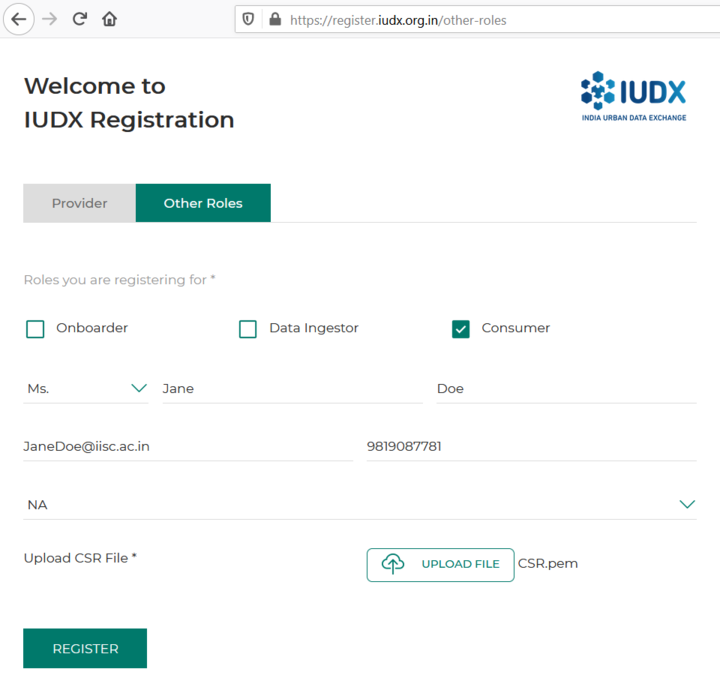
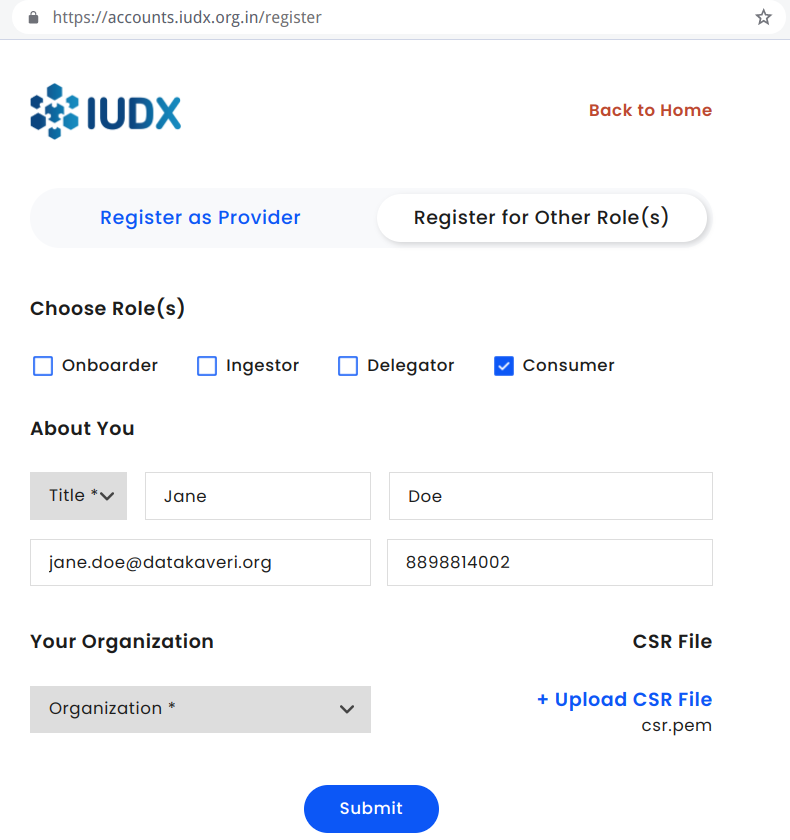
Update reg links and  registration screenshots

diff --git a/getting_started/auth/consumer.md b/getting_started/auth/consumer.md
@@ -4,7 +4,7 @@
 The IUDX Auth Consumer API is used to obtain consumer certificates and authorization tokens. The certificate is used to uniquely identify a consumer and is issued by the IUDX Certificate Authority. It can be obtained from the Registration API. The authorization tokens are obtained using the certificate, by specifying the resources which the consumer wants to access, along with the capabilities. Both these API flows are specified below.
 
 ## Registration
-A new consumer must register ([Consumer Registration Panel](https://register.iudx.org.in/other-roles)) with the IUDX platform with some basic identification details. These details include their name, email address and phone number. Additionally, they should also generate a Certificate Signing Request (CSR) and include that in the API call. This CSR is used to generate a signed certificate which will be delivered to the email address they have specified.
+A new consumer must register ([Consumer Registration Panel](https://accounts.iudx.org.in/register)) with the IUDX platform with some basic identification details. These details include their name, email address and phone number. Additionally, they should also generate a Certificate Signing Request (CSR) and include that in the API call. This CSR is used to generate a signed certificate which will be delivered to the email address they have specified.
 
 ![Consumer registration](../resources/auth/cons-reg.png)<br>
 *Consumer registration*

diff --git a/getting_started/auth/producer.md b/getting_started/auth/producer.md
@@ -6,7 +6,7 @@ The IUDX Auth Provider API is used to obtain provider certificates and authoriza
 
 ## Registration
 
-The IUDX Admin team will initiate a provider registration by first creating an entry for the provider’s organization. A new provider must then register (Registration Panel) with the IUDX platform with some basic identification details. These details include their name, organization email address and phone number. Additionally, they should also generate a Certificate Signing Request (CSR) and include that in the API call. This CSR is used to generate a signed certificate which will be delivered to the email address they have specified, after their registration request has been approved by the IUDX Admin team.
+The IUDX Admin team will initiate a provider registration by first creating an entry for the provider’s organization. A new provider must then register ([Registration Panel](accounts.iudx.org.in/register)) with the IUDX platform with some basic identification details. These details include their name, organization email address and phone number. Additionally, they should also generate a Certificate Signing Request (CSR) and include that in the API call. This CSR is used to generate a signed certificate which will be delivered to the email address they have specified, after their registration request has been approved by the IUDX Admin team.
 
 ![Provider registration](../resources/auth/prov-reg.png)<br>
 *Provider registration*
